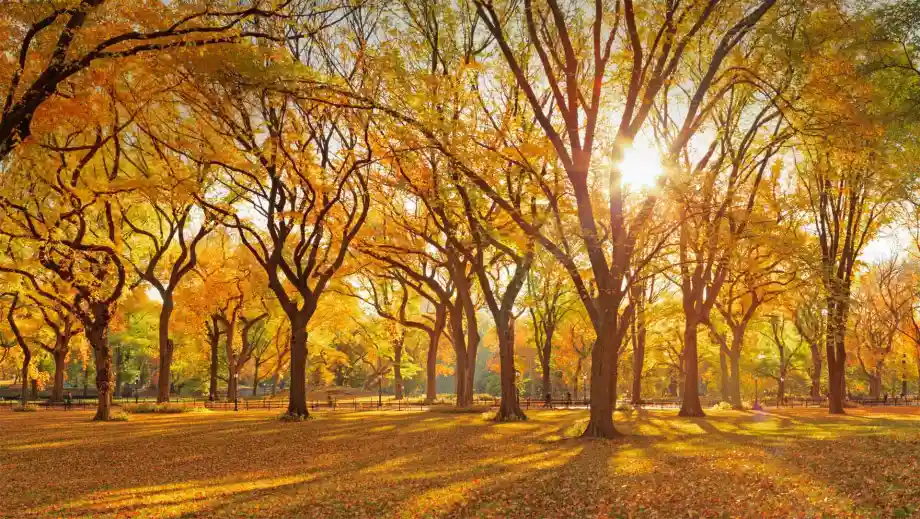
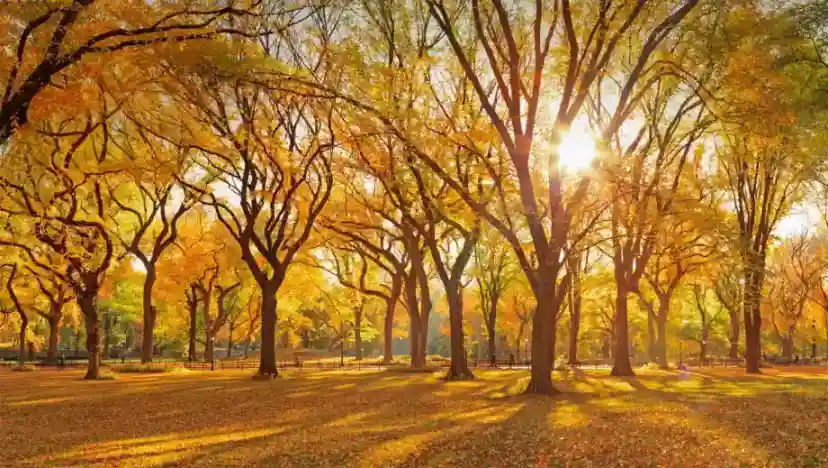
Add music-5555.webp image to the public assets

diff --git a/App/Route/web.php b/App/Route/web.php
@@ -42,13 +42,24 @@ Route::get("/:user", [UserControllers::class, "userPage"]);
 Route::get("/op/image", function(){
   // Optimizamos las imágenes de /App/Public/Img/ y las guardamos en /App/Public/Img/Optimized/ en formato WebP a un máximo de 50 KB
   $result = ImgProcessModule::optimizeDirectoryImages(
-    ROOT_PATH . '/App/Public/Img/', 
-    ROOT_PATH . '/App/Public/Img/Optimized/', 
-    70, 
+    ROOT_PATH . '/App/Public/Img/Custom/', 
+    ROOT_PATH . '/App/Public/Img/Custom/', 
+    40, 
     'webp', 
     false
   );
   header('Content-Type: application/json');
   echo json_encode($result, JSON_PRETTY_PRINT);
+  exit;
+});
+
+Route::get("/op/check", function(){
+  header('Content-Type: application/json');
+  echo json_encode([
+    'extension_loaded_imagick' => extension_loaded('imagick'),
+    'class_exists_Imagick' => class_exists('Imagick'),
+    'php_version' => PHP_VERSION,
+    'ini_path' => php_ini_loaded_file(),
+  ], JSON_PRETTY_PRINT);
   exit;
 });

diff --git a/App/Views/User/Hero/Mid/midHero.php b/App/Views/User/Hero/Mid/midHero.php
@@ -7,7 +7,7 @@
   </div>
 
   <figure class="absolute top back1 ar-square hpx480 hpx-sml-360 w100 faded-image">
-    <img src="<?= DIR_SHOW_MEDIA.'/Custom/porfolio_eber_dark.png'?>" alt="Avatar de <?= $user ?? "Usuario"?>" class="cover image-protected">
+    <img src="<?= DIR_SHOW_MEDIA.'/Custom/porfolio_eber_dark.webp'?>" alt="Avatar de <?= $user ?? "Usuario"?>" class="cover image-protected">
   </figure>
 
   <div class="flex-column bottom-center gap10 position-inset-hero hpx500 hpx-sml-400 p20 pt0 pb5">

diff --git a/App/Views/User/Hero/Regular/regularHero.php b/App/Views/User/Hero/Regular/regularHero.php
@@ -9,7 +9,7 @@
     
     <div class="flex-column center-center hpx120">
       <figure class="hpx100 wpx100 br100 back1">
-        <img src="<?= DIR_SHOW_MEDIA.'/Custom/porfolio_eber_dark.png'?>" alt="Avatar de <?= $card["title"]?>" class="cover image-protected">
+        <img src="<?= DIR_SHOW_MEDIA.'/Custom/porfolio_eber_dark.webp'?>" alt="Avatar de <?= $card["title"]?>" class="cover image-protected flex-row center-center">
       </figure>
     </div>
     
